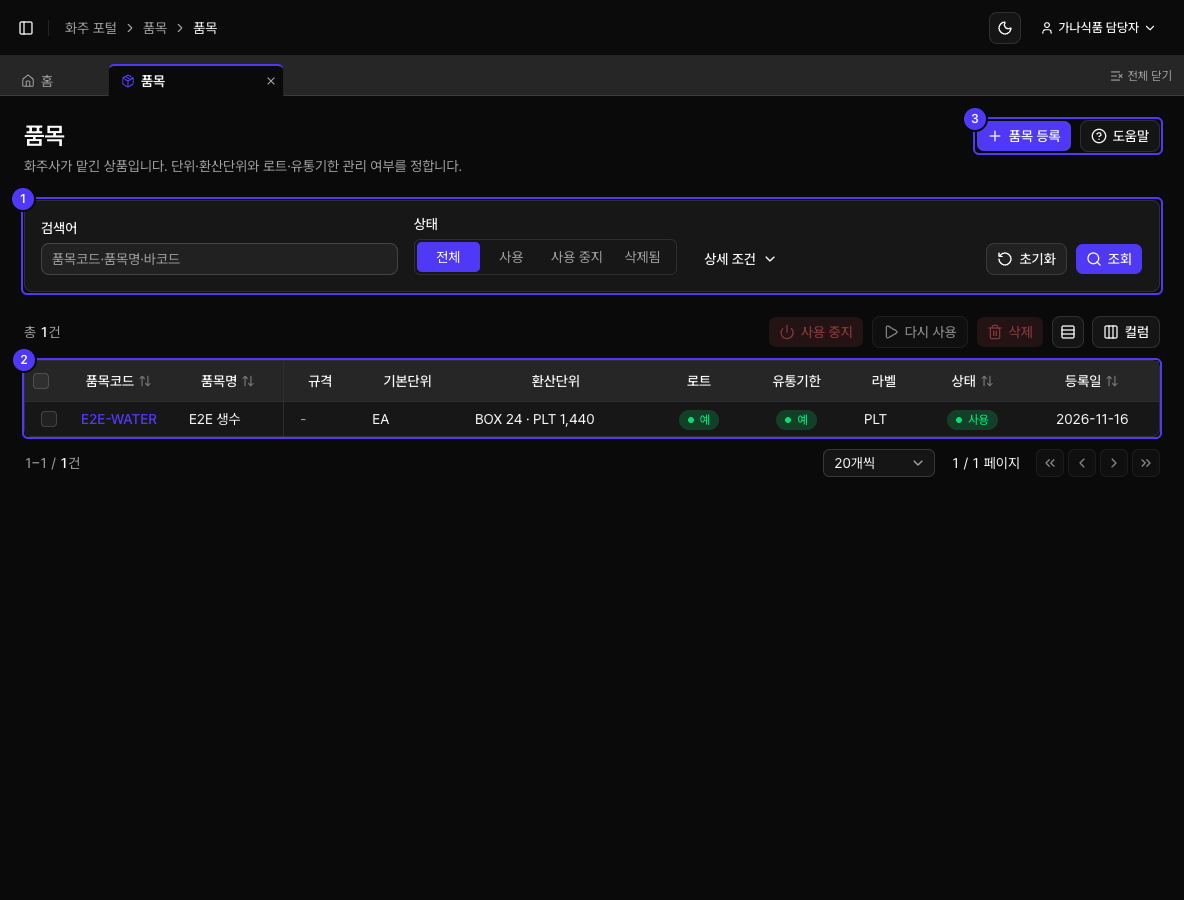
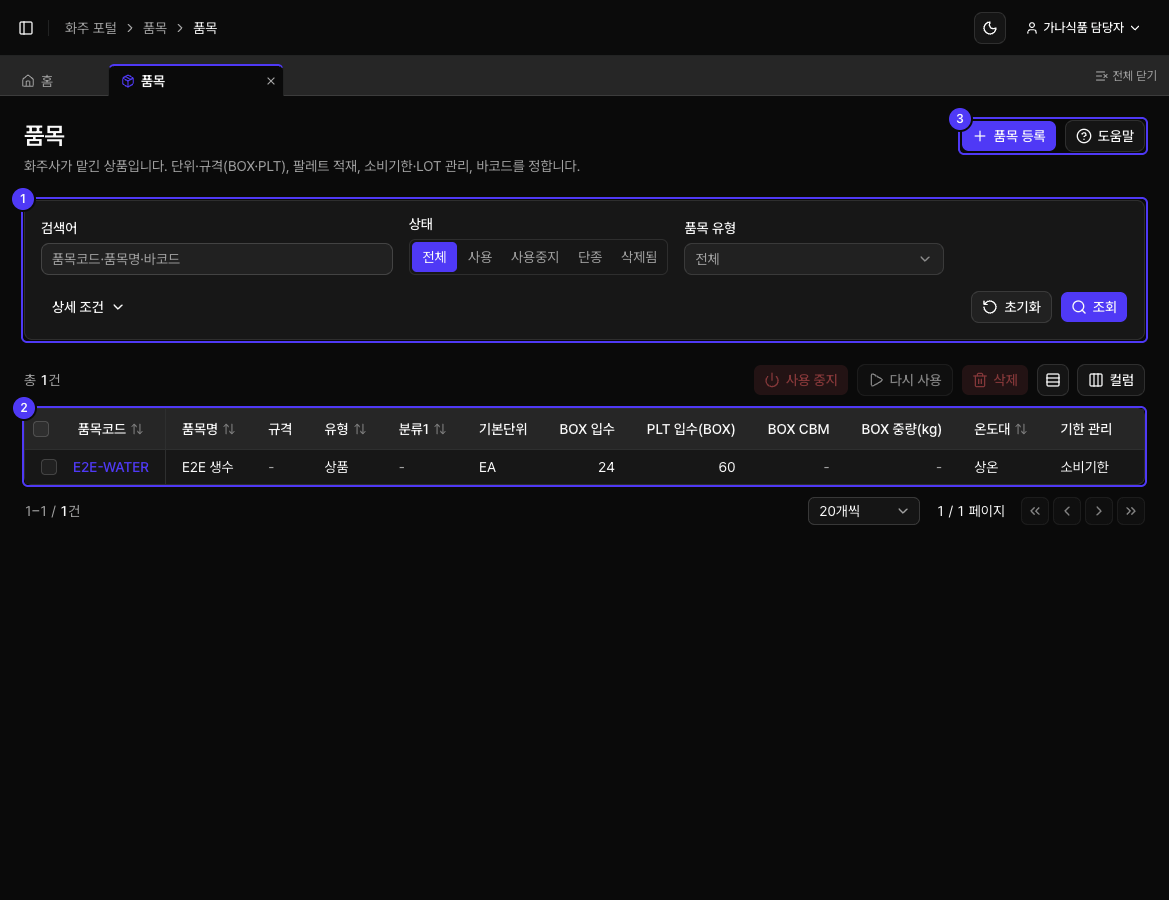
docs: 품목 ② 도움말·사진·결정 기록·ROADMAP — 목록 칸·거르기, 상태·팔레트 일괄, 엑셀 업로드 (0083)
- 운영사 품목 도움말: 목록 칸·상세 검색(체적·PLT 미등록), 상태 바꾸기(단종), 팔레트 적재 일괄 입력, 엑셀 업로드
- 포털 품목 도움말: 목록 칸·체적 미등록 거르기·단종 안내
- 품목 목록 사진(운영사·포털) 다시 찍음
- 0083: ② 단계 결정(바코드 칸·빈 칸 유지·건너뛰고 적용·포털 범위)과 upsert·업로드 규칙, 버린 안
- ROADMAP: ② 완료, 현재 위치 ③

diff --git a/docs/decisions/0083-item-spec.md b/docs/decisions/0083-item-spec.md
@@ -1,7 +1,7 @@
 # 0083. 품목 정의서 반영 — 단위·규격·팔레트 적재·기한/LOT·바코드
 
 - 날짜: 2026-11-19
-- 상태: 채택 (① 단계 완료 — ② 목록·엑셀 업로드, ③ API는 다음 작업)
+- 상태: 채택 (①② 단계 완료 — ③ 품목 API는 다음 작업)
 - 관련: 0041 (품목 첫 설계 — 일부 대체), 0042 (단위 환산), 0078·0079 (단위 기준정보·운영사 단위 설정), 0080 (화주사 상태), 0038 (논리 삭제·버전), 0030·0040 (상수 + DB 검사 조건)
 - 정의서: `docs/specs/item.md` (`tb_item_uom`은 `tb_item_unit`, `tb_uom`은 `tb_unit`, `client`는 `shipper`로 읽음)
 - 코드: `src/lib/items/` (`item-codes.ts` 코드값, `item-calc.ts` 계산, `item-schema.ts` 입력 규칙, `items.ts` 저장, `item-uom.ts`·`item-convert.ts` 환산), `src/lib/pallets/`, `src/components/item/`, `src/app/admin/master/pallet-types/`
@@ -81,6 +81,45 @@
   - `calcItemVolume` — 수량의 CBM·중량. BOX 규격 기준, 나머지는 낱개(BASE) 규격이 있으면 그것으로, 없으면 BOX를 비례로. BOX 규격이 없으면 `VOLUME_MISSING`.
 - 한 품목으로 여러 번 계산할 때는 `loadItemUoms`로 한 번 읽고 `…In` 함수를 쓴다.
 
+## ② 단계 — 목록·일괄 처리·엑셀 업로드 (2026-11-20)
+
+### 사용자 결정 (모두 추천안)
+
+| 항목 | 결정 |
+| --- | --- |
+| 엑셀 바코드 | 품목 시트에 **단위별 대표 바코드 칸**(기본단위·INNER·BOX·PLT). 바코드 시트는 두지 않음 (공통 업로드 틀은 입력 시트 1장) |
+| 엑셀 수정 때 빈 칸 | **그대로 둠** (넣은 칸만 고침 — 거래처 업로드·API와 같음) |
+| 팔레트 일괄 입력 | 계산할 수 없는 품목(BOX 없음 등)은 **건너뛰고 나머지 적용**, 건너뛴 품목·사유를 결과로 |
+| 화주 포털 | **목록 개선만** 함께. 상태 일괄·팔레트 일괄·엑셀 업로드는 운영사 화면만 |
+
+### upsert 서비스 (`item-upsert.ts`)
+
+- 화주사 + 품목코드로 찾는다. 있으면 저장된 값(`itemInputOf`), 없으면 새 품목 처음 값(`item-defaults.ts` — 화면과 같은 값: 화주사 기한·LOT·시리얼 복사, 운영사 기본 팔레트) 위에 부르는 쪽의 `patch`가 **보낸 칸만** 덮어쓴다.
+  - 엑셀은 평면 칸, ③ API는 단위·바코드 배열이라 덮어쓰는 방법을 부르는 쪽이 정한다.
+- 입력 규칙으로 정리한 값이 전과 같으면 `UNCHANGED` (수정하지 않아 버전·이력이 늘지 않는다). 상태(단종 포함)도 함께 받는다.
+- 저장은 화면과 같은 `createItemIn`·`updateItemIn` — 단위 검사·PLT 계산·경고·수정 제한이 모두 같다.
+
+### 목록
+
+- 정의서 6장의 칸·상세 검색. **체적 미등록** = BOX 행이 없거나 BOX 가로·세로·높이·총중량 중 하나라도 없음. **PLT 미등록** = PLT 행 없음.
+- 상태 거르기에 단종. 상태 칸은 배지(사용·사용중지·단종), `isActive` 대신 `status`를 그대로 보낸다.
+
+### 상태 일괄 변경
+
+- 사용·사용중지·단종. 단종 품목은 새 입고예정(ASN)의 품목 고르기에서 빠지고, 넣으려 하면 "단종된 품목" 오류. 남은 재고 출고 허용은 출고 기능 때.
+
+### 팔레트 적재 일괄 입력 (`item-bulk.ts`)
+
+- 품목마다 따로 트랜잭션: 저장된 값에 팔레트 칸만 바꿔 `updateItemIn`으로 저장(일반 수정과 같은 길). BOX가 없거나 입력 규칙·업무 오류면 건너뛰고 사유를 모은다.
+- 결과: 대상 수·적용 수·경고(높이·중량 초과 등) 품목 수·건너뛴 품목.
+
+### 엑셀 업로드 (`item-upload.ts`, `item-upload-template.ts`)
+
+- 1행 1품목 평면 형식. 단위는 코드로(BOX단위를 비우면 BOX, PLT는 시스템 PLT), 바코드 종류는 자리수로 짐작(13 → EAN-13, 14 → ITF-14 등, 나머지 화주 자체).
+- 기한관리 Y만 넣으면 소비기한·기한일 입력, LOT관리 Y만 넣으면 입고 시 입력 (화면·새 품목과 같은 처음 값).
+- 형식 오류(없는 화주사·단위 코드, Y/N·숫자, 같은 품목 두 줄)는 그 칸에, 업무 오류(입력 규칙·단위 순서·바코드 중복 등)는 그 행에. 미리보기는 같은 처리를 해 보고 되돌리며, 요약에 신규·수정·변경 없음·체적 미등록·팔레트 높이/중량 초과 건수.
+- 오류가 하나라도 있으면 전체 등록 안 함(0049). 권한은 등록·수정 둘 다(거래처 업로드와 같다).
+
 ## 버린 안
 
 - **새 표 `tb_item_uom`**: 이미 ASN·재고·라벨이 `tb_item_unit`을 읽고 있어, 표를 바꾸면 고칠 곳만 늘어난다.
@@ -88,3 +127,6 @@
 - **PLT를 늘 계산(직접 입력 금지)**: 적재 정보를 모르는 화주가 많아 등록이 막힌다.
 - **바코드를 운영사 전체에서 고유**: 같은 상품을 여러 화주가 맡기는 경우를 막는다.
 - **로트·유통기한 상속(0041) 유지**: 기한 종류·생성 방식까지 품목마다 달라 상속으로는 표현이 안 된다.
+- **엑셀 바코드 시트 따로 (②)**: 공통 업로드 틀을 여러 시트로 넓혀야 한다. 대표 바코드는 칸으로 충분하고 여러 개는 화면·API로.
+- **엑셀 빈 칸 = 지움 (②)**: 실수로 비운 칸이 규격·바코드를 지운다.
+- **팔레트 일괄을 전부 아니면 전무로 (②)**: BOX 없는 품목 하나 때문에 나머지를 못 넣는다.

diff --git a/docs/ROADMAP.md b/docs/ROADMAP.md
@@ -5,7 +5,7 @@
 > 끝난 작업은 `[x]`로 바꿉니다.
 > 데이터 구조는 `docs/decisions/0003-domain-model.md`를 따릅니다.
 
-## 현재 위치: M7 진행 중 — 품목 정의서 ① 완료, 다음: 품목 정의서 ②(목록·엑셀 업로드). 배포 방법 결정(0067)은 사용자 결정 대기
+## 현재 위치: M7 진행 중 — 품목 정의서 ② 완료, 다음: 품목 정의서 ③(품목 API). 배포 방법 결정(0067)은 사용자 결정 대기
 
 ---
 
@@ -117,7 +117,7 @@
   - [x] 거래처 정의서 ②: 납품처 목록 메뉴(확인 필요 처리·배송센터 일괄 지정·권역 기준 재지정·재정제) + 권역설정 변경 미리보기·저장 직후 재지정 (0082)
   - [x] 거래처 정의서 ③: 거래처 API 5개(upsert·보낸 칸만 수정·건별 납품처 결과·정책)·엑셀 업로드(한 시트 반복 행)·API 필드 대응표 (0082)
   - [x] 품목 정의서 ①: 품목 칸 확장·단위 레벨/규격(`tb_item_unit`)·바코드 표·팔레트 종류 메뉴·품목 편집(PLT 자동 계산·경고·기한/LOT 명시값)·환산 함수(`toItemBaseQty`·`convertItemQty`·`splitByUom`·`calcItemVolume`) (0083)
-  - [ ] 품목 정의서 ②: 품목 목록(체적·PLT 미등록 거르기, 팔레트 일괄 입력, 상태 변경 — 단종 포함)·엑셀 업로드 (0083)
+  - [x] 품목 정의서 ②: 품목 목록(체적·PLT 미등록 거르기, 팔레트 일괄 입력, 상태 변경 — 단종 포함)·엑셀 업로드(평면 형식, upsert 서비스) (0083)
   - [ ] 품목 정의서 ③: 품목 API 3개(외부 단위코드 매핑, 단위·바코드 삭제 표시)·오류·경고 코드·API 필드 대응표 (0083)
 
 완료 기준: 로트를 쓰는 화주사와 안 쓰는 화주사의 품목을 각각 등록하고, 환산단위가 올바르게 계산된다. → 완료 (2026-11-15: 품목 테스트 — 화주사 기본값 로트 사용/안 함·적용값, 환산 함수 테스트)

diff --git a/src/content/help/portal/items.md b/src/content/help/portal/items.md
@@ -11,14 +11,19 @@ summary: 우리 회사가 맡기는 상품을 등록하고, 단위·규격(BOX·
 
 ## 검색 · 목록 보기
 
-- 검색어(품목코드·품목명·어느 단위의 바코드든)와 **상태**로 찾고, [조회] 또는 Enter로 적용합니다. 로트·유통기한 사용 여부와 등록일은 [상세 조건]에 있습니다.
+- 검색어(품목코드·품목명·어느 단위의 바코드든), **상태**(사용·사용중지·단종), **품목 유형**으로 찾고, [조회] 또는 Enter로 적용합니다.
+- [상세 조건]에는 분류1·브랜드·보관 온도대·기한 관리·LOT 관리·위험물·**체적**(미등록/등록)·**PLT 적재**(미등록/등록)·등록일이 있습니다.
 - 행이나 품목코드를 누르면 수정 화면으로 갑니다.
 
 | 칸 | 뜻 |
 | - | - |
-| 환산단위 | 묶음 단위와 환산수량 (예: `BOX 24` = 한 상자에 24개) |
-| 로트 · 유통기한 · 라벨 | **지금 실제로 적용되는 값**입니다. 라벨 단위를 "화주사 값 따름"으로 둔 품목은 우리 회사 설정을 따릅니다 |
-| 라벨 옆 ⚠ | 라벨 단위(BOX·PLT)의 환산수량이 없습니다. 센터에서 그 품목의 라벨을 붙일 수 없으니 넣어 주세요 |
+| BOX 입수 · PLT 입수(BOX) | 상자 하나에 낱개 몇 개, 팔레트 하나에 상자 몇 개 |
+| BOX CBM · BOX 중량 | 상자 규격으로 계산한 체적과 총중량 |
+| 체적 | 상자 가로·세로·높이·총중량이 모두 있으면 **등록**, 하나라도 없으면 **미등록** — 센터가 보관 공간을 계산하려면 필요합니다 |
+| 상태 | 사용 · 사용중지 · **단종**(센터가 정함: 새 입고예정에 넣을 수 없고, 남은 재고는 출고 가능) |
+
+> [!TIP]
+> [상세 조건]의 **체적: 미등록**으로 상자 규격을 아직 넣지 않은 품목을 모아 볼 수 있습니다.
 
 <!-- 권한: portal.items.create -->
 ## [품목 등록]
